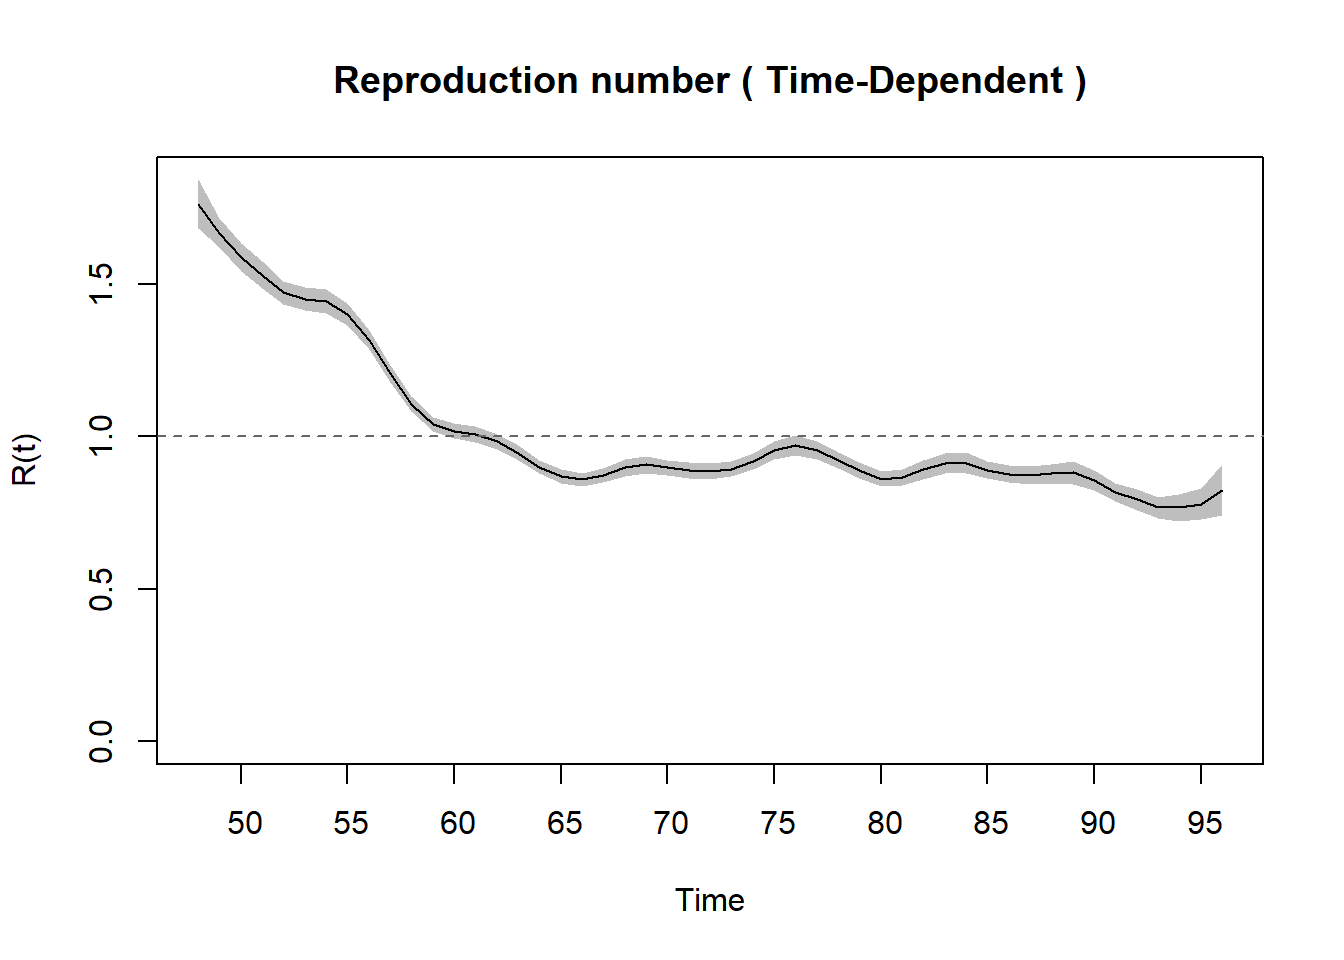
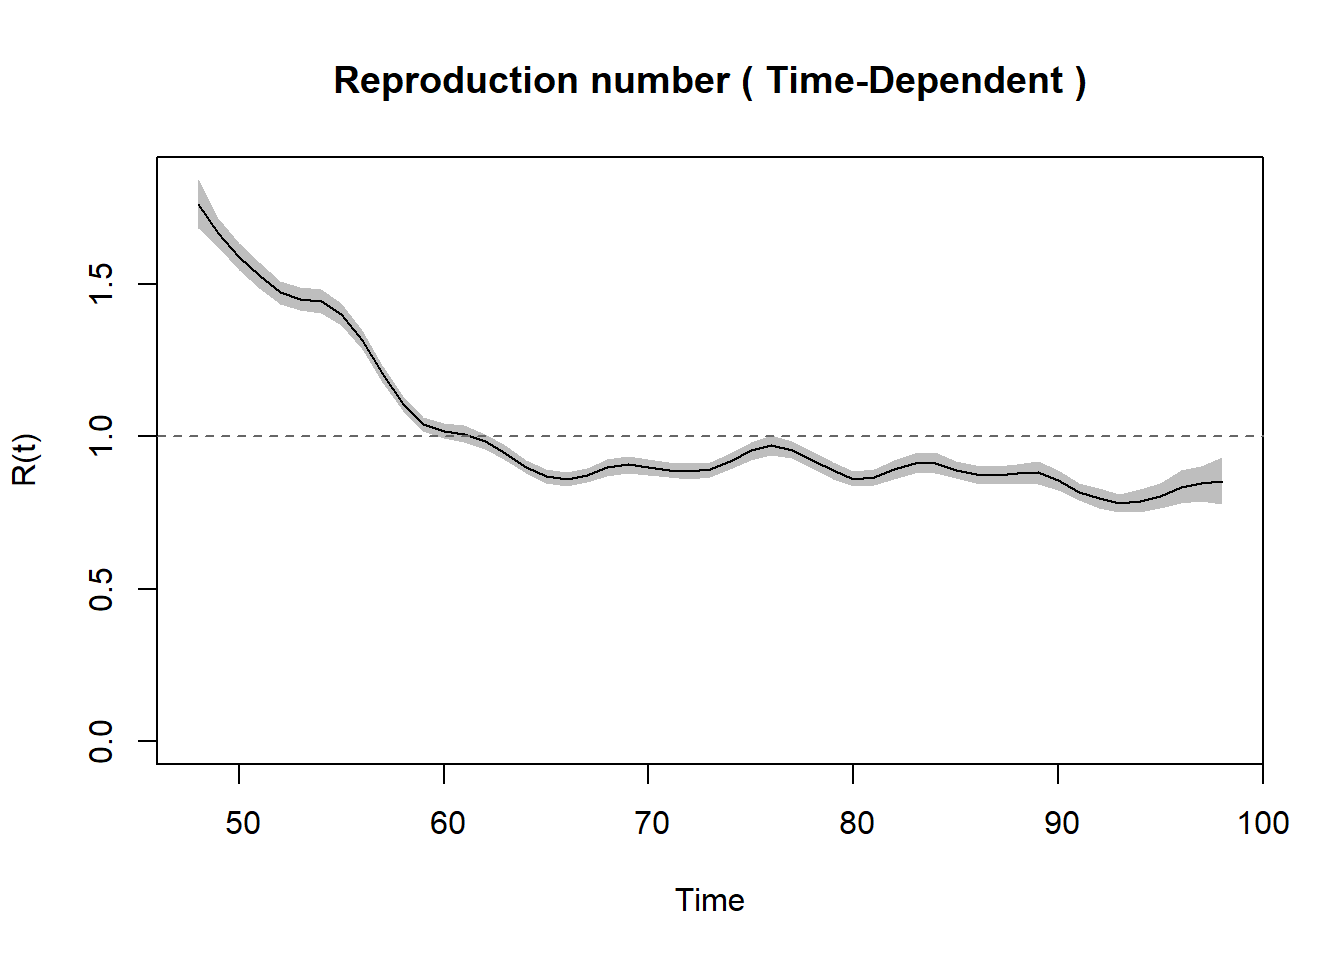
Modified code

diff --git a/content/post/2020-04-30-time-varying-reproductive-number.html b/content/post/2020-04-30-time-varying-reproductive-number.html
@@ -125,7 +125,7 @@ rt.func.v3_dusty&lt;-function(dat,mean.Weibull=4.8,sd.Weibull=2.3){
 }
 
 
-jhu_all&lt;-read_csv(&quot;https://raw.githubusercontent.com/nick3703/Parametric-Modeling-for-Time-Varying-Reproducibility-Number/master/2020-04-30_JHU.csv&quot;)
+jhu_all&lt;-read_csv(paste0(&quot;https://raw.githubusercontent.com/nick3703/Parametric-Modeling-for-Time-Varying-Reproducibility-Number/master/&quot;,lubridate::today(),&quot;_JHU.csv&quot;)
 
 state.names&lt;-read_csv(&quot;https://raw.githubusercontent.com/nick3703/Parametric-Modeling-for-Time-Varying-Reproducibility-Number/master/StateNames.csv&quot;)
 
